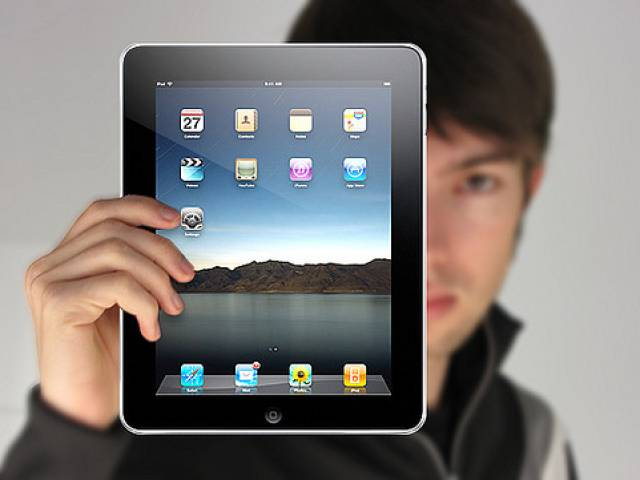
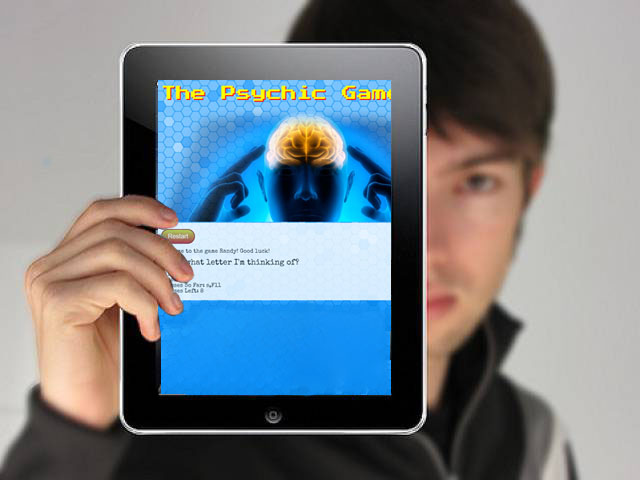
added psychic game to portfolio page

Changed region(s): [[0.25, 0.1562, 0.625, 0.8438]]

diff --git a/portfolio.html b/portfolio.html
@@ -27,12 +27,13 @@
       <h1>Portfolio</h1>
 
       <div class="work">
-        <img src="assets/images/technics-q-c-640-480-1.jpg" alt="hangman">
+        <a href="https://dhrandy.github.io/psychic-game/">
+        <img src="assets/images/technics-q-c-640-480-1.jpg" alt="psychic"></a>
 
-        <h3>Hangman</h3>
+        <h3>Psychic Game</h3>
       </div>
       <div class="work">
-        <img src="assets/images/technics-q-c-640-480-2.jpg" alt="RPG Game">
+        <img src="assets/images/technics-q-c-640-480-2.jpg" alt="RPG Game"></a>
 
         <h3>RPG Game</h3>
       </div>

diff --git a/assets/css/style.css b/assets/css/style.css
@@ -110,7 +110,6 @@ footer {
   border-top: 8px solid #2b8bb1;
   height: 50px;
   font-weight: bold;
-  position: absolute;
   bottom: 0;
   width: 100%;
 }
@@ -268,8 +267,7 @@ input[type=submit] {
   }
 
   footer {
-    position: static;
-    position: 0;
+    bottom: 0;
     width: 101%;
     margin-top: 20px;
 

diff --git a/index.html b/index.html
@@ -47,7 +47,6 @@
   </div>  
 
   <footer>
-    <div class="container">
       Copyright &copy; 2018 | All Rights Reserved.
     </div>
   </footer>

diff --git a/contact.html b/contact.html
@@ -59,7 +59,6 @@
   </div>
 
   <footer>
-    <div class="container">
       Copyright &copy; 2018 | All Rights Reserved.
     </div>
   </footer>
